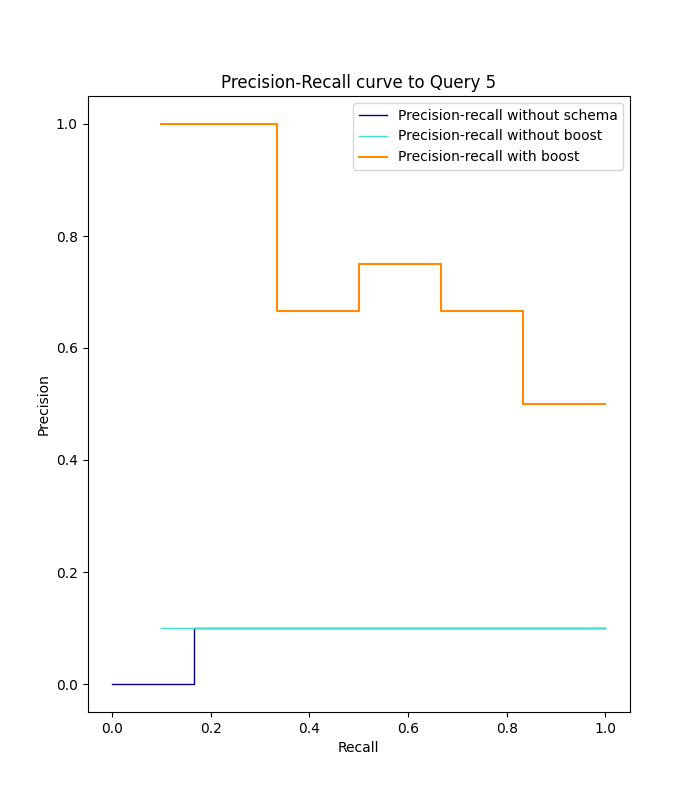
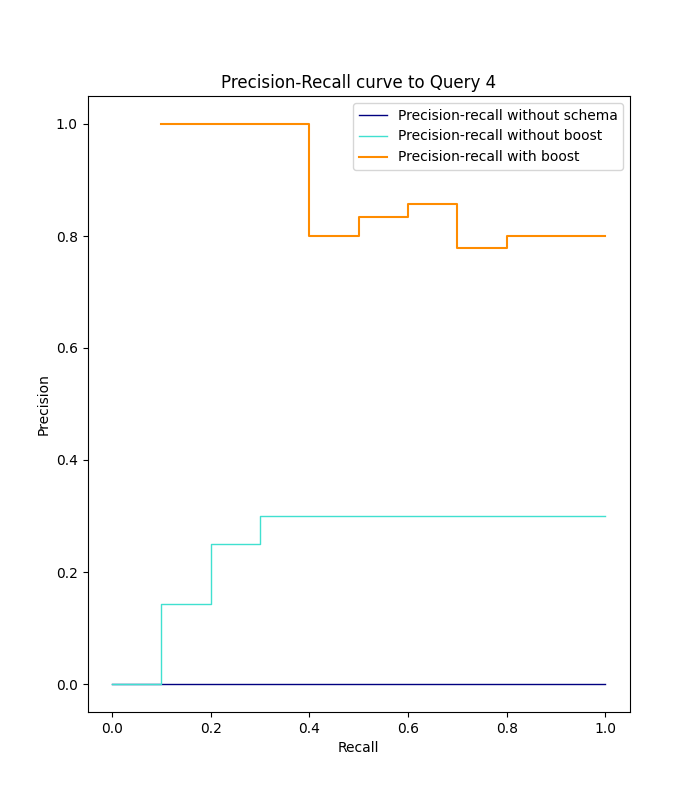
fixed plots

diff --git a/solr/information-needs/evaluationJoined.py b/solr/information-needs/evaluationJoined.py
@@ -10,16 +10,16 @@ from itertools import cycle
 # setup plot details
 colors = cycle(["navy", "turquoise", "darkorange", "cornflowerblue", "teal"])
 
-QRELS_FILE = "query5/5_qrels.txt"
+QRELS_FILE = "query4/4_qrels.txt"
 
-QUERY_URL_NORMAL = "http://localhost:8983/solr/books/select?defType=edismax&fl=*%2C%20score&fq=description%3A%20family&fq=genres%3Aromance&indent=true&q.op=OR&q=christmas%20gift&qf=reviews%20genres%20description&rows=10"
-QUERY_URL_BOOSTED = "http://localhost:8983/solr/books/select?bq=(genres%3Aromance)%5E60%20(description%3Afriends)%5E20&defType=edismax&fl=*%2C%20score&indent=true&pf=reviews%5E30&ps=5&q.op=OR&q=christmas%20gift&qf=reviews&rows=10"
+QUERY_URL_NORMAL = "http://localhost:8983/solr/books/select?defType=edismax&fl=*%2C%20score&indent=true&q.op=AND&q=%22world%20war%20II%22%20emotive%20holocaust&qf=reviews%20genres%20description&rows=10"
+QUERY_URL_BOOSTED = "http://localhost:8983/solr/books/select?bq=(reviews%3Aemotive)%5E80&defType=edismax&fl=*%2C%20score&indent=true&q.op=AND&q=%22world%20war%20II%22%20emotive%20holocaust&qf=reviews%5E20%20genres%5E100%20description%5E10&rows=10"
 
 # Read qrels to extract relevant documents
 relevant = list(map(lambda el: el.strip(), open(QRELS_FILE).readlines()))
 # Get query results from Solr instance
 
-results_noschema = json.load(open('query5/noschema.json', encoding="utf8"))['response']['docs']
+results_noschema = json.load(open('query4/noschema.json', encoding="utf8"))['response']['docs']
 results_normal = requests.get(QUERY_URL_NORMAL).json()['response']['docs']
 results_boosted = requests.get(QUERY_URL_BOOSTED).json()['response']['docs']
 
@@ -76,6 +76,6 @@ handles, labels = disp.ax_.get_legend_handles_labels()
 
 # set the legend and the axes
 ax.legend(handles=handles, labels=labels, loc="best")
-ax.set_title("Precision-Recall curve to Query 5")
+ax.set_title("Precision-Recall curve to Query 4")
 
 plt.savefig('precision_recall.png')
